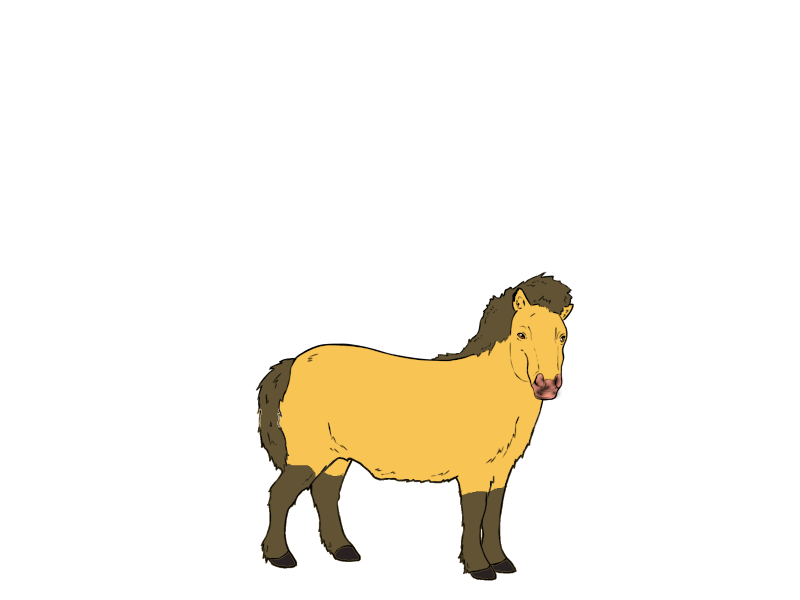
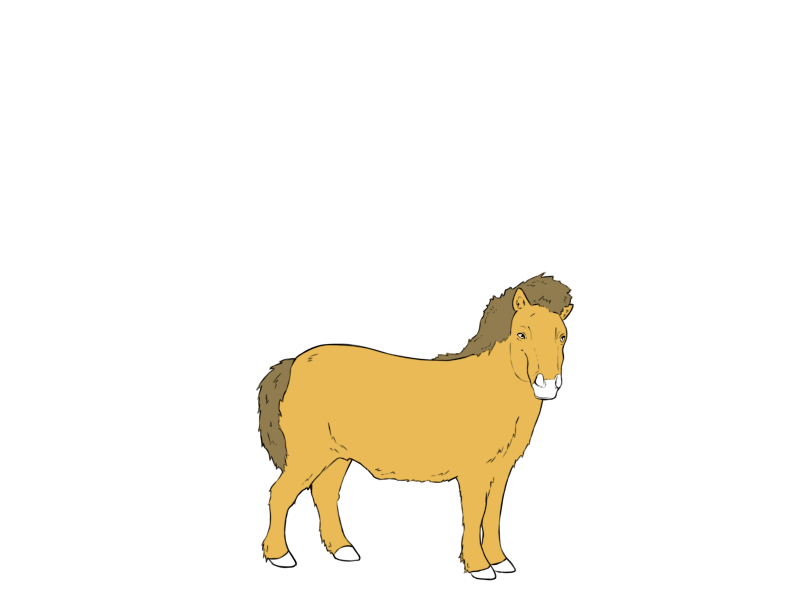
bai dilués

diff --git a/database/seeds/CouleurImageTableSeeder.php b/database/seeds/CouleurImageTableSeeder.php
@@ -1269,7 +1269,7 @@ class CouleurImageTableSeeder extends Seeder
             array (
                 'id' => 197,
                 'couleur_id' => 179,
-                'image_id' => 160,
+                'image_id' => 161,
                 'created_at' => NULL,
                 'updated_at' => NULL,
             ),
@@ -1341,7 +1341,7 @@ class CouleurImageTableSeeder extends Seeder
             array (
                 'id' => 206,
                 'couleur_id' => 174,
-                'image_id' => 101,
+                'image_id' => 168,
                 'created_at' => NULL,
                 'updated_at' => NULL,
             ),
@@ -1606,6 +1606,142 @@ class CouleurImageTableSeeder extends Seeder
                 'id' => 240,
                 'couleur_id' => 34,
                 'image_id' => 167,
+                'created_at' => NULL,
+                'updated_at' => NULL,
+            ),
+            199 => 
+            array (
+                'id' => 241,
+                'couleur_id' => 187,
+                'image_id' => 2,
+                'created_at' => NULL,
+                'updated_at' => NULL,
+            ),
+            200 => 
+            array (
+                'id' => 242,
+                'couleur_id' => 187,
+                'image_id' => 54,
+                'created_at' => NULL,
+                'updated_at' => NULL,
+            ),
+            201 => 
+            array (
+                'id' => 243,
+                'couleur_id' => 187,
+                'image_id' => 167,
+                'created_at' => NULL,
+                'updated_at' => NULL,
+            ),
+            202 => 
+            array (
+                'id' => 244,
+                'couleur_id' => 140,
+                'image_id' => 166,
+                'created_at' => NULL,
+                'updated_at' => NULL,
+            ),
+            203 => 
+            array (
+                'id' => 245,
+                'couleur_id' => 186,
+                'image_id' => 115,
+                'created_at' => NULL,
+                'updated_at' => NULL,
+            ),
+            204 => 
+            array (
+                'id' => 246,
+                'couleur_id' => 186,
+                'image_id' => 168,
+                'created_at' => NULL,
+                'updated_at' => NULL,
+            ),
+            205 => 
+            array (
+                'id' => 247,
+                'couleur_id' => 186,
+                'image_id' => 166,
+                'created_at' => NULL,
+                'updated_at' => NULL,
+            ),
+            206 => 
+            array (
+                'id' => 248,
+                'couleur_id' => 164,
+                'image_id' => 166,
+                'created_at' => NULL,
+                'updated_at' => NULL,
+            ),
+            207 => 
+            array (
+                'id' => 249,
+                'couleur_id' => 166,
+                'image_id' => 166,
+                'created_at' => NULL,
+                'updated_at' => NULL,
+            ),
+            208 => 
+            array (
+                'id' => 250,
+                'couleur_id' => 173,
+                'image_id' => 166,
+                'created_at' => NULL,
+                'updated_at' => NULL,
+            ),
+            209 => 
+            array (
+                'id' => 251,
+                'couleur_id' => 30,
+                'image_id' => 166,
+                'created_at' => NULL,
+                'updated_at' => NULL,
+            ),
+            210 => 
+            array (
+                'id' => 252,
+                'couleur_id' => 15,
+                'image_id' => 169,
+                'created_at' => NULL,
+                'updated_at' => NULL,
+            ),
+            211 => 
+            array (
+                'id' => 253,
+                'couleur_id' => 40,
+                'image_id' => 169,
+                'created_at' => NULL,
+                'updated_at' => NULL,
+            ),
+            212 => 
+            array (
+                'id' => 254,
+                'couleur_id' => 40,
+                'image_id' => 164,
+                'created_at' => NULL,
+                'updated_at' => NULL,
+            ),
+            213 => 
+            array (
+                'id' => 255,
+                'couleur_id' => 179,
+                'image_id' => 169,
+                'created_at' => NULL,
+                'updated_at' => NULL,
+            ),
+            214 => 
+            array (
+                'id' => 256,
+                'couleur_id' => 179,
+                'image_id' => 164,
+                'created_at' => NULL,
+                'updated_at' => NULL,
+            ),
+            215 => 
+            array (
+                'id' => 257,
+                'couleur_id' => 178,
+                'image_id' => 169,
                 'created_at' => NULL,
                 'updated_at' => NULL,
             ),

diff --git a/database/seeds/ImagesTableSeeder.php b/database/seeds/ImagesTableSeeder.php
@@ -832,7 +832,7 @@ class ImagesTableSeeder extends Seeder
                 'id' => 100,
                 'chemin' => 'rmalezan',
                 'extension' => 'png',
-                'z_index' => 24,
+                'z_index' => 22,
                 'created_at' => NULL,
                 'updated_at' => NULL,
             ),
@@ -841,7 +841,7 @@ class ImagesTableSeeder extends Seeder
                 'id' => 101,
                 'chemin' => 'rmnoir',
                 'extension' => 'png',
-                'z_index' => 24,
+                'z_index' => 22,
                 'created_at' => NULL,
                 'updated_at' => NULL,
             ),
@@ -1381,7 +1381,7 @@ class ImagesTableSeeder extends Seeder
                 'id' => 163,
                 'chemin' => 'rmalezandil',
                 'extension' => 'png',
-                'z_index' => 30,
+                'z_index' => 23,
                 'created_at' => NULL,
                 'updated_at' => NULL,
             ),
@@ -1418,6 +1418,24 @@ class ImagesTableSeeder extends Seeder
                 'chemin' => 'membressilver',
                 'extension' => 'png',
                 'z_index' => 10,
+                'created_at' => NULL,
+                'updated_at' => NULL,
+            ),
+            156 => 
+            array (
+                'id' => 168,
+                'chemin' => 'rmnoirdilue',
+                'extension' => 'png',
+                'z_index' => 23,
+                'created_at' => NULL,
+                'updated_at' => NULL,
+            ),
+            157 => 
+            array (
+                'id' => 169,
+                'chemin' => 'membresnoirsdilues',
+                'extension' => 'png',
+                'z_index' => 30,
                 'created_at' => NULL,
                 'updated_at' => NULL,
             ),
